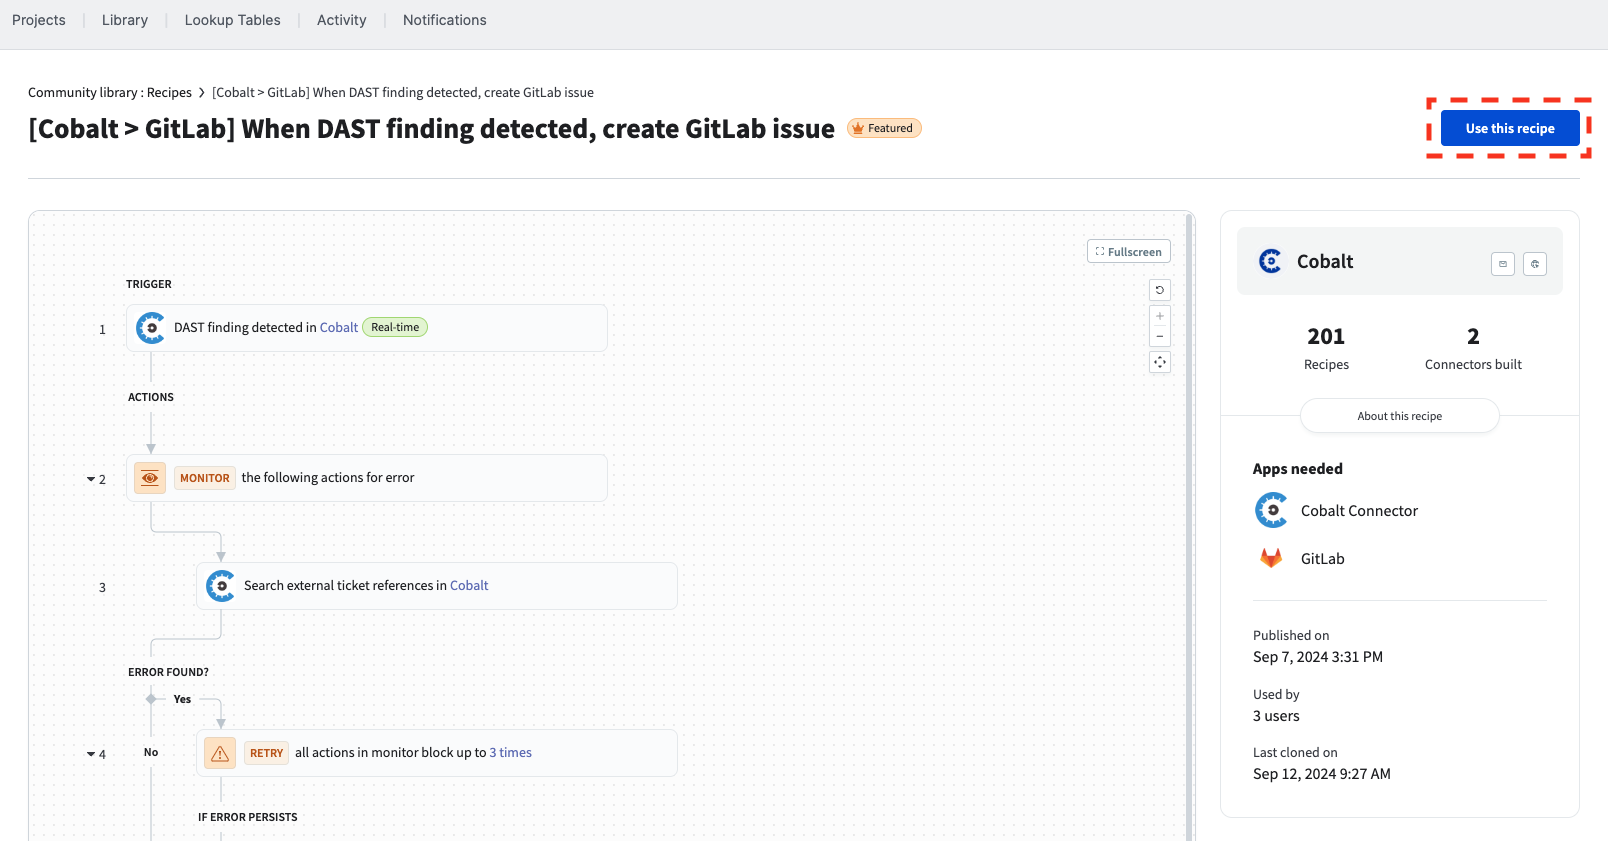
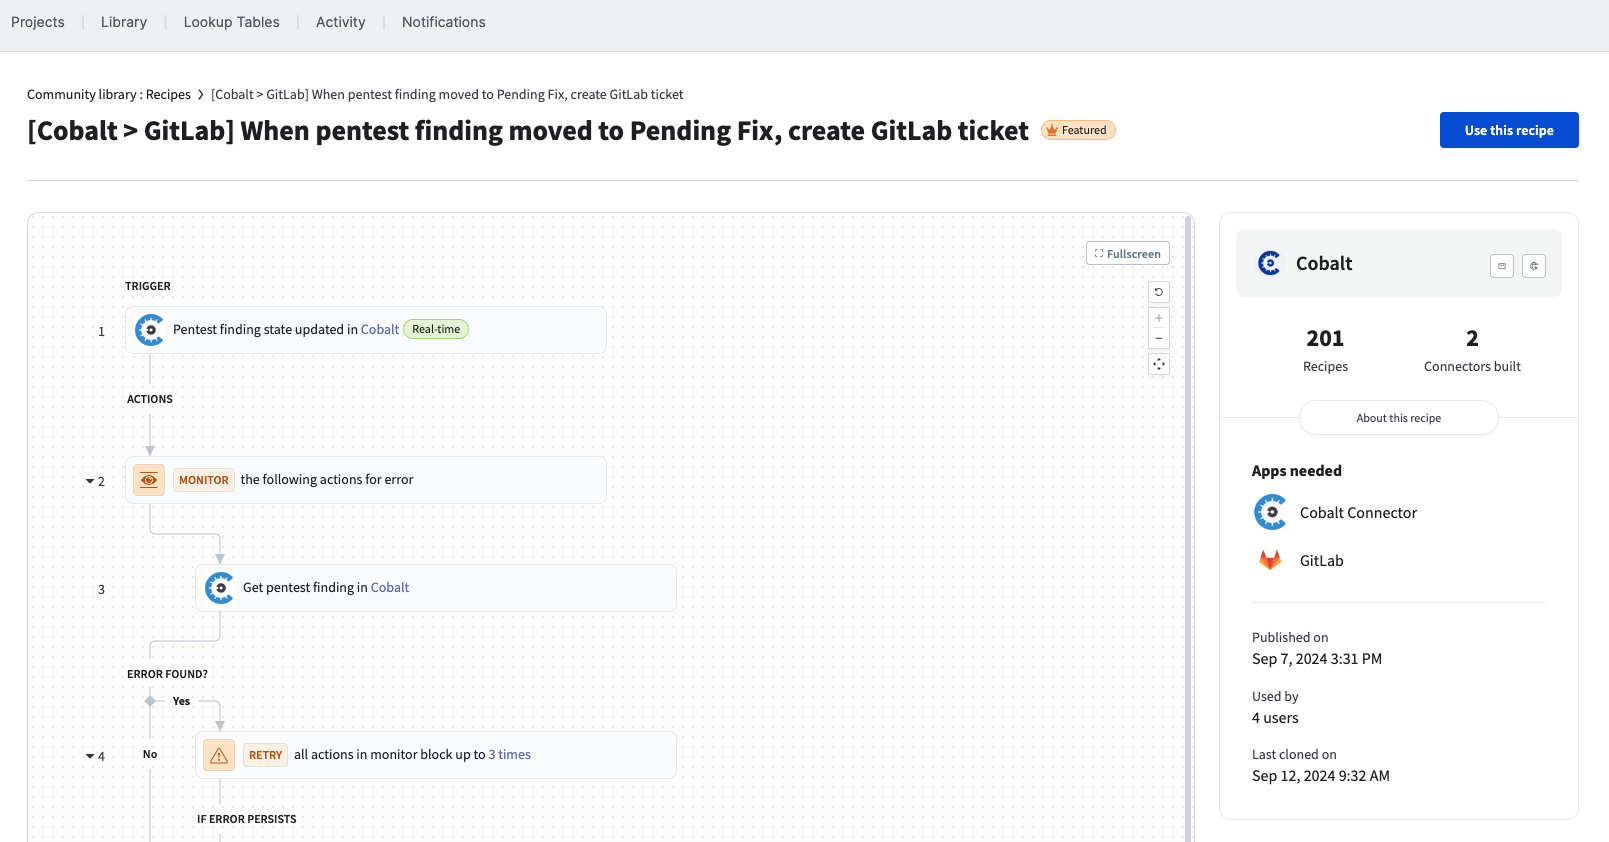
Update the instructions and screenshots

diff --git a/content/en/Integrations/IntegrationBuilder/configure-gitlab-integration.md b/content/en/Integrations/IntegrationBuilder/configure-gitlab-integration.md
@@ -74,60 +74,39 @@ Go to the "Library" tab and search for the GitLab recipe.
 
 {{% image src="/integrations/integration_builder/gitlab/12-find-community-recipe.png" alt="Find GitLab recipe" %}}
 
-There is no GitLab recipe found for a new pentest finding, but a recipe for a DAST finding exists. We can use it as a base and customize it. Click on the recipe to see its details and click "Use this recipe".
+There are two recipes to choose from, depending on whether you're interested in creating GitLab issues to track a pentest finding or a DAST Scanner finding. We'll use the pentest finding recipe as a base and customize it. Click on the recipe to see its details and click "Use this recipe".
 
-{{% image src="/integrations/integration_builder/gitlab/13-use-recipe.png" alt="DAST recipe" %}}
+{{% image src="/integrations/integration_builder/gitlab/13-use-recipe.png" alt="Use recipe" %}}
 
 Choose to save the recipe in the folder you created earlier.
 
-{{% image src="/integrations/integration_builder/gitlab/14-use-recipe-folder.png" alt="Save recipe in folder" %}}
-
-Once copied and saved, an initial customization is needed.
-
-{{% image src="/integrations/integration_builder/gitlab/15-recipe-needs-customization.png" alt="Customize recipe" %}}
-
-You can see in the recipe's graph that there is an error. The highlighted step is the one causing the error.
-
-{{% image src="/integrations/integration_builder/gitlab/16-error.png" alt="Recipe error" %}}
-
-The existing error is due to a missing field for the GitLab project.
-
-{{% image src="/integrations/integration_builder/gitlab/17-click-step-with-error.png" alt="Recipe error" %}}
-
-Select your GitLab project in the step's settings.
-
-{{% image src="/integrations/integration_builder/gitlab/18-select-gitlab-project.png" alt="Select GitLab project" %}}
+{{% image src="/integrations/integration_builder/gitlab/14-copy-and-save.png" alt="Copy and save recipe" %}}
 
 ### 5. Customize the Recipe
 
-Notice the first step in the recipe (the trigger) is about a DAST finding. We need to change it to a pentest finding.
-If you click on it, you can see the trigger's settings. Change the trigger name to "pentest finding" at the top, and change the trigger on use at the right to "Pentest finding published".
+Once copied and saved, an initial customization is needed.
 
-{{% image src="/integrations/integration_builder/gitlab/19-customize-trigger.png" alt="Change trigger" %}}
+{{% image src="/integrations/integration_builder/gitlab/15-customize.png" alt="Customize recipe" %}}
 
-Once done, click "Save" then "Exit". Now you can see the recipe is saved and the error is gone. Let's start the recipe from the top right button.
+You can see in the recipe's graph that there is an error. The highlighted step is the one causing the error.
 
-{{% image src="/integrations/integration_builder/gitlab/20-start-recipe.png" alt="Start recipe" %}}
+{{% image src="/integrations/integration_builder/gitlab/16-recipe-error.png" alt="Recipe error" %}}
 
-You will see a new error message, and the steps with errors are highlighted. That's because some steps depend on info from the original DAST-related trigger. So we need to change that.
+The existing error is due to a missing field for setting the GitLab project.
 
-{{% image src="/integrations/integration_builder/gitlab/21-start-recipe-error.png" alt="Start recipe" %}}
+{{% image src="/integrations/integration_builder/gitlab/17-click-step-with-error.png" alt="Recipe step error" %}}
 
-If you click on the step with the error, the settings on the right will show an invalid ID. You need to change it to the correct pentest finding ID.
+Select your GitLab project in the step's settings, then save and exit the recipe.
 
-{{% image src="/integrations/integration_builder/gitlab/22-error-step-wrong-id.png" alt="Wrong ID" %}}
+{{% image src="/integrations/integration_builder/gitlab/18-select-gitlab-project-and-save.png" alt="Select GitLab project and save and exit" %}}
 
-Delete the wrong ID and choose "Finding ID" from the dropdown. This will automatically fill in the correct ID.
+Now there are no more errors. You can start the recipe. This may take a few seconds to run.
 
-{{% image src="/integrations/integration_builder/gitlab/23-error-step-select-correct-id.png" alt="Correct ID" %}}
+{{% image src="/integrations/integration_builder/gitlab/19-start-recipe.png" alt="Start recipe" %}}
 
-Now save and exit, and you will see that the error is gone. Start the recipe again. This may take a few seconds to run.
+Once the recipe is running, you will see the jobs tab to monitor any events. This can be left open to verify whether a created finding triggers the desired action. The recipe will continue running even when the tab is closed. Click "Stop recipe" if you need to stop running it. To edit the recipe, you must stop running it first.
 
-{{% image src="/integrations/integration_builder/gitlab/24-start-recipe.png" alt="Start recipe" %}}
-
-Once the recipe is running, you will see the jobs tab to monitor any events. This can be left open to verify whether a created finding triggers the desired action.
-The recipe will continue running even when closing the tab, until "Stop recipe" gets clicked.
-
-{{% image src="/integrations/integration_builder/gitlab/25-recipe-running.png" alt="Start recipe" %}}
+{{% image src="/integrations/integration_builder/gitlab/20-recipe-running.png" alt="Recipe running" %}}
 
 You can [create a test Finding](/integrations/development/create-test-finding/) to test the recipe.
+
